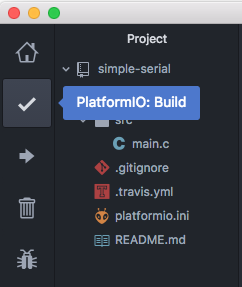
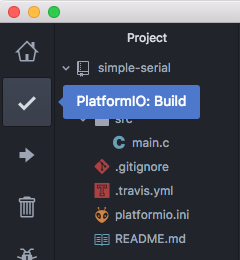
Neater screen shots

diff --git a/getting-started.md b/getting-started.md
@@ -11,7 +11,7 @@ The basic pattern for the lab classes, and ultimately the assignment, is:
  1. [Fork](#forking-a-repository) the repository on Github.
  2. [Clone](#cloning-the-repository) the repository on the local machine.
  3. [Work](#working-on-the-project) on the project
-    1. Edit
+    1. [Edit](#editing)
     2. Compile
     3. Upload
     4. Evaluate
@@ -86,9 +86,19 @@ You can now open the folder that has just been created in Atom through the "Add 
 
 ![Atom](images/atom.png)
 
-![Atom](images/atom-build.png)
+![Atom](images/atom-build.png){: style="float:left; margin-right:1em"}
+## Editing
+The code can be edited and saved just as with any editor (it's just text after all)
 
-![Atom](images/atom-upload.png)
+## Building
+The build button on the toolbar, launches the build process.  The status and progression of the build is seen in another smaller sub-window.
+
+For the first run of the build, this can take time as the process may have to download and compile libraries and tools used.
+
+{: style="clear:both"}
+
+![Atom](images/atom-upload.png){: style="float:left; margin-right:1em"}
+## Uploading
 
 ![Atom](images/atom-serial.png)
 
